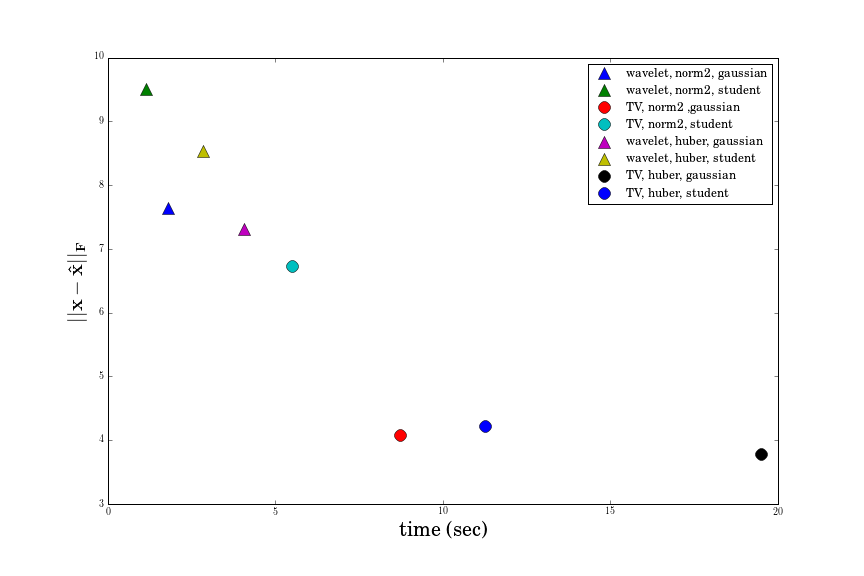
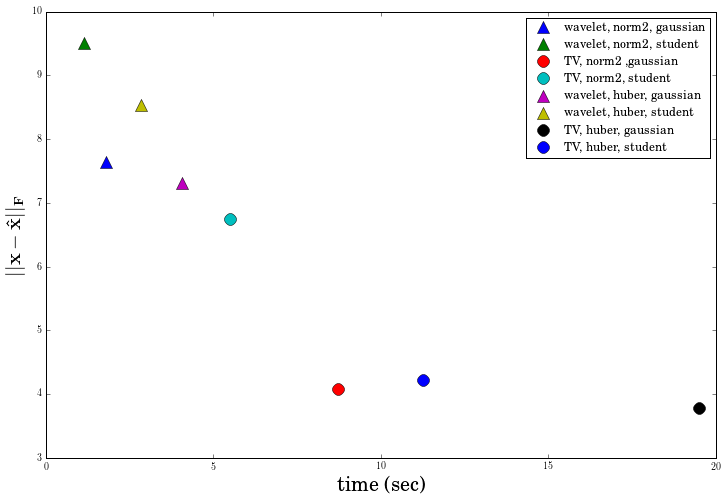
fixed spacing

diff --git a/presentation/515slides.tex b/presentation/515slides.tex
@@ -564,7 +564,7 @@ s_{ij} &= sgn(q_{ij} ) \min \{ 1, |q_{ij}| \}\\
 
 \begin{frame}{Results: Comparison of Methods}
 	\begin{center}
-		\vspace{-8 mm}
+		\vspace{-3 mm}
 		\includegraphics[scale=0.40]{../figures/comparePlot.png}
 	\end{center}
 \end{frame}
